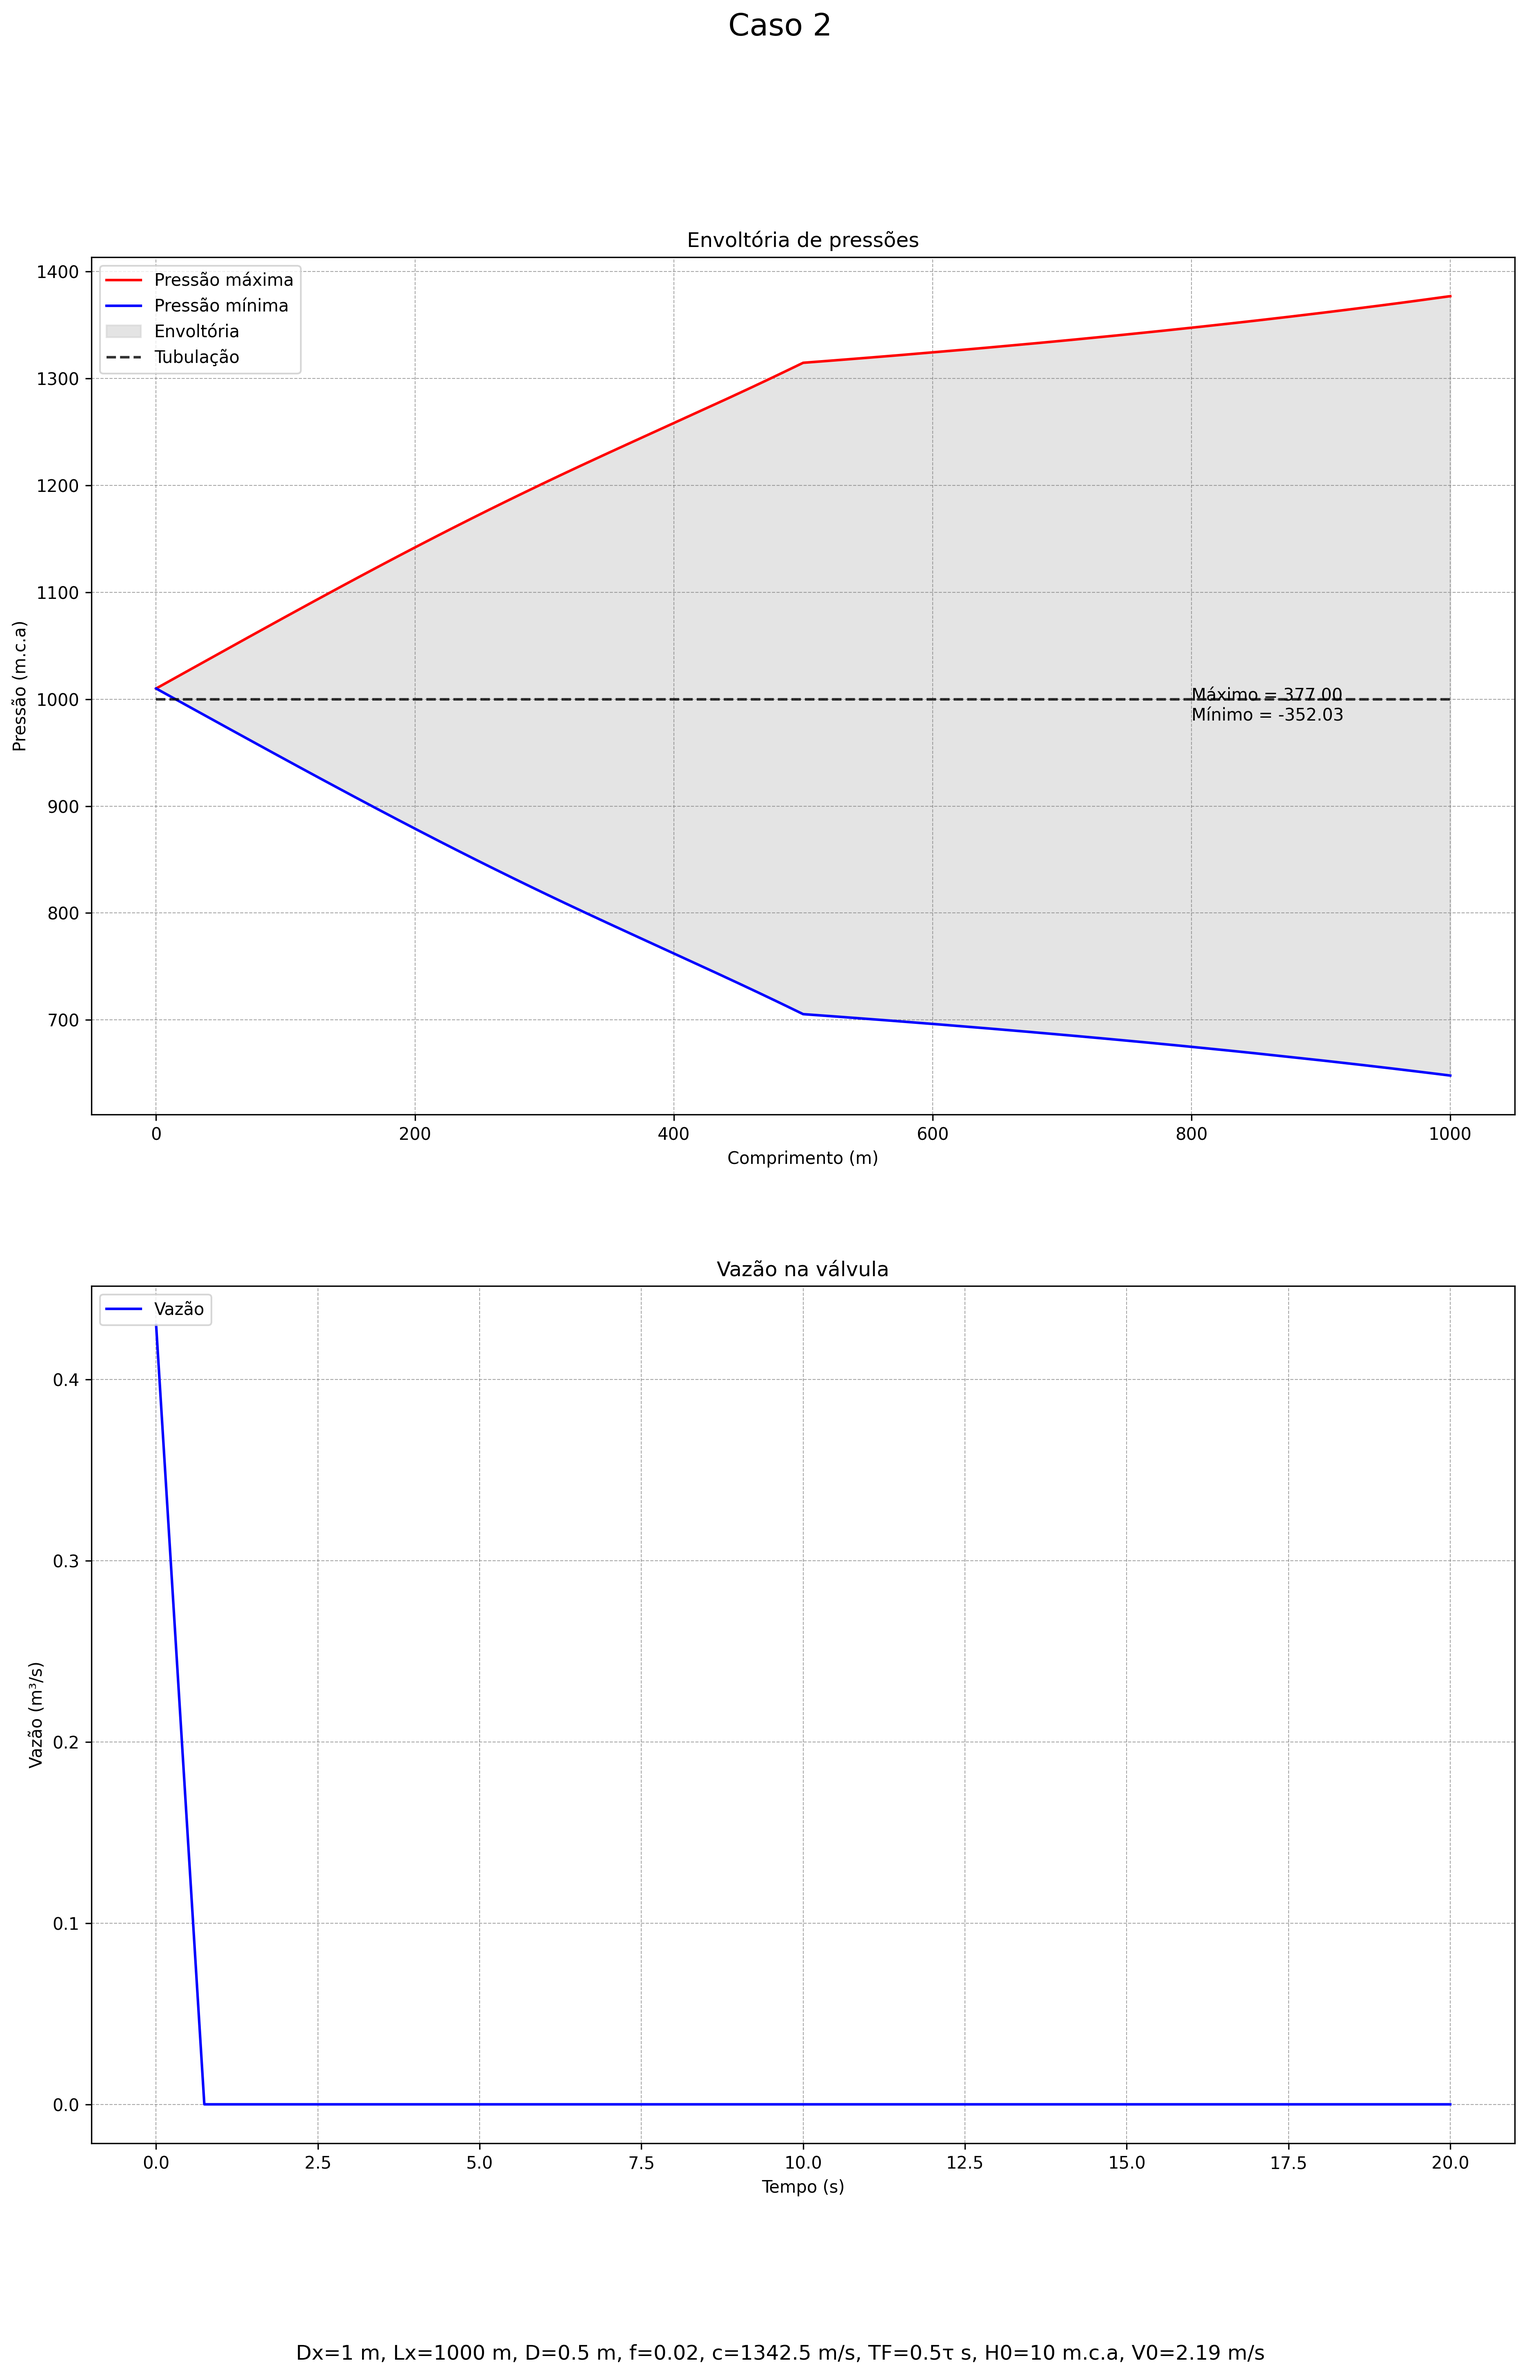
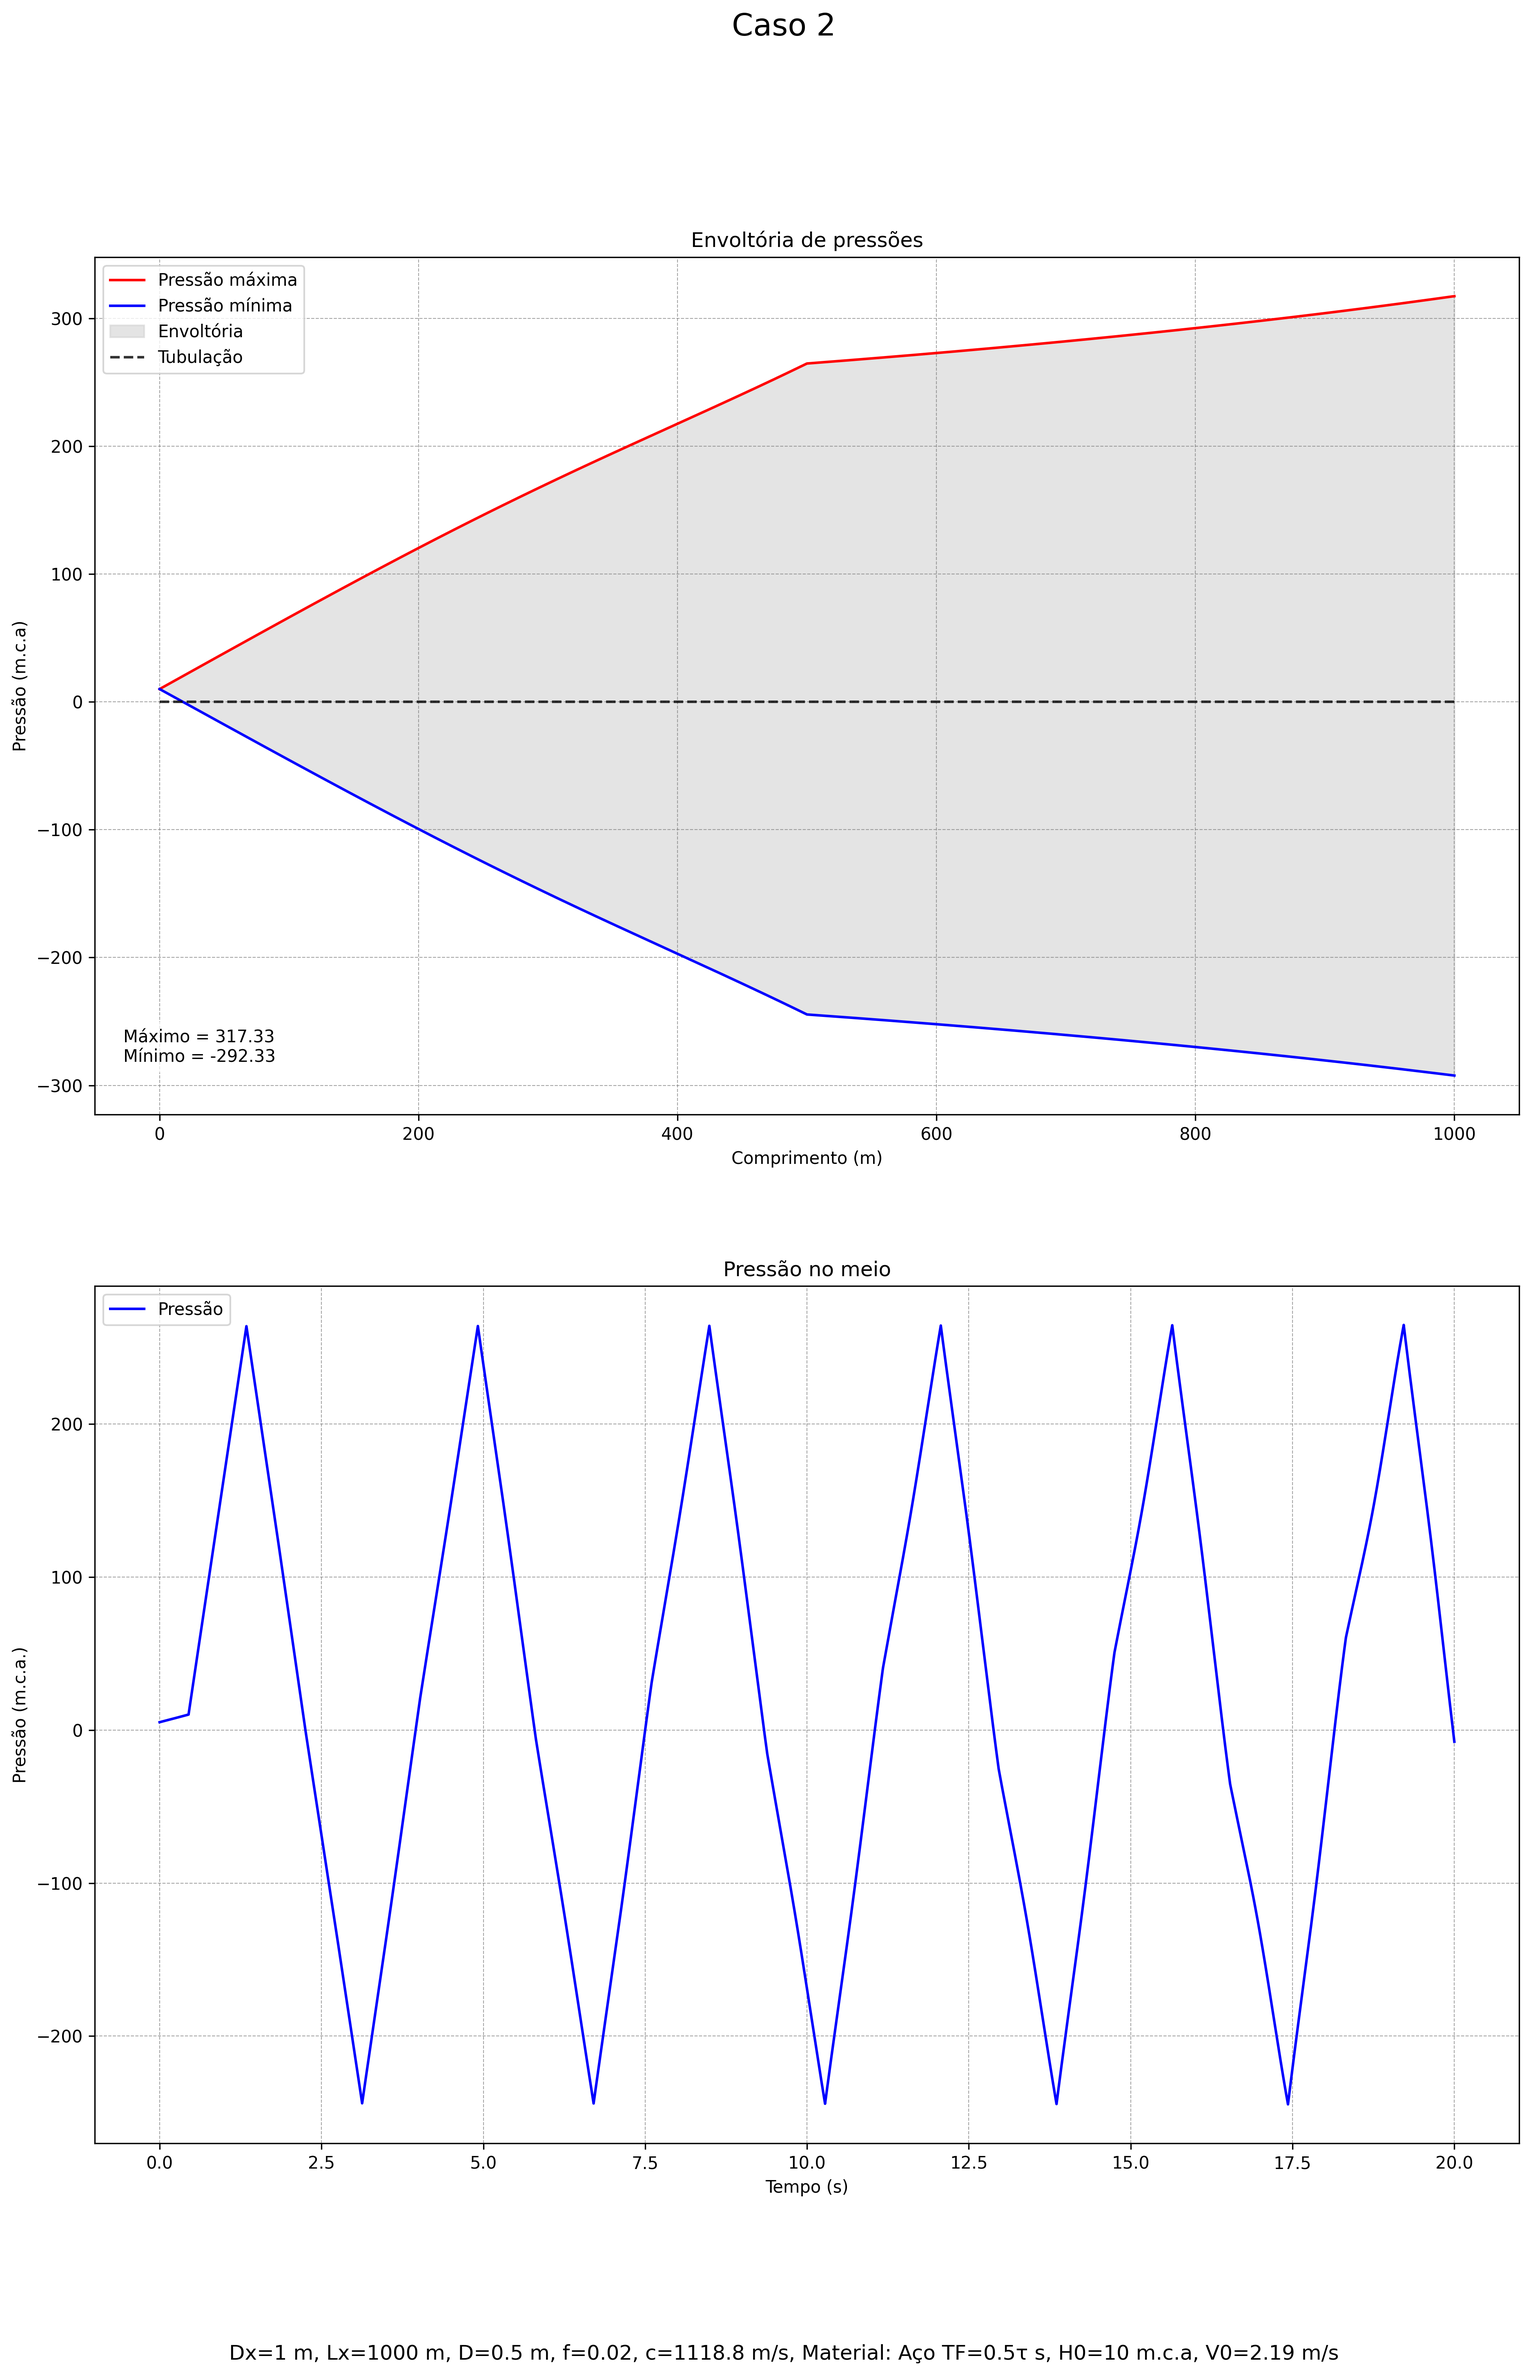
Ajustes nos dados de celeridade para simulação

diff --git a/transiente-hidraulico-moc.py b/transiente-hidraulico-moc.py
@@ -11,15 +11,15 @@ os.makedirs(pasta_saida, exist_ok=True)      # Cria a pasta para salvar gráfico
 animacao = False     # Define se vai ser gerada a animação
 
 # --- CASOS SIMULADOS ---
-casos = [[1, 1,1118.8, 0.5, 20, 'Aço'],
-         [1, 0.1,1118.8, 0.5, 20,'Aço'],
-         [1, 0.5,1118.8, 0.5, 20,'Aço'],
-         [10, 1,1118.8, 0.5, 20,'Aço'],
-         [0.1, 1,1118.8, 0.5, 2,'Aço'],
-         [1, 1,1118.8, 0.1, 20,'Aço'],
-         [1, 1,1118.8, 2, 20,'Aço'],
-         [1, 1,294.7, 0.5, 20,'PVC'],
-         [1, 1,530.5, 0.5, 20,'PVC'],
+casos = [[1, 1, 1278.8, 0.5, 20, 'Aço'],
+         [1, 0.1, 1379.5, 0.5, 20,'Aço'],
+         [1, 0.5, 1342.5, 0.5, 20,'Aço'],
+         [10, 1, 1278.8, 0.5, 20,'Aço'],
+         [0.1, 1, 1278.8, 0.5, 5,'Aço'],
+         [1, 1, 1278.8, 0.1, 20,'Aço'],
+         [1, 1, 1278.8, 2, 20,'Aço'],
+         [1, 1, 620.5, 0.5, 20,'PVC'],
+         [1, 1, 622.9, 0.5, 20,'PVC'],
 ]
 # Essa é a matriz com os dados de todos os casos simulados, na ordem: Dx, D, Material (c) , Tal, Tempo de simulação
 
@@ -158,7 +158,7 @@ for caso_simulado in tqdm(range(len(casos)), desc="Simulando casos"):
     ax2[0].legend(loc='upper left', fontsize=10)
     ax2[0].grid(True, which='both', linestyle='--', linewidth=0.5, color='gray', alpha=0.7 )
     
-    ax2[0].text(0.02, 0.95, f'Máximo = {np.max(pressao):.2f}\nMínimo = {np.min(pressao):.2f}', 
+    ax2[0].text(0.02, 0.1, f'Máximo = {np.max(pressao):.2f}\nMínimo = {np.min(pressao):.2f}', 
                 transform=ax2[0].transAxes, fontsize=10, verticalalignment='top', 
                 bbox=dict(facecolor='white', alpha=0.7, edgecolor='none')
                 )
@@ -171,7 +171,7 @@ for caso_simulado in tqdm(range(len(casos)), desc="Simulando casos"):
     ax2[1].legend(loc='upper left', fontsize=10)
     ax2[1].grid(True, which='both', linestyle='--', linewidth=0.5, color='gray', alpha=0.7 )
     """
-    
+
     ## --- Gráfico da pressão no meio da tubulação ---
     pressao_meio, = ax2[1].plot(tempo, coluna_m_pressao, color='b', label='Pressão')
     ax2[1].set_xlabel("Tempo (s)")
